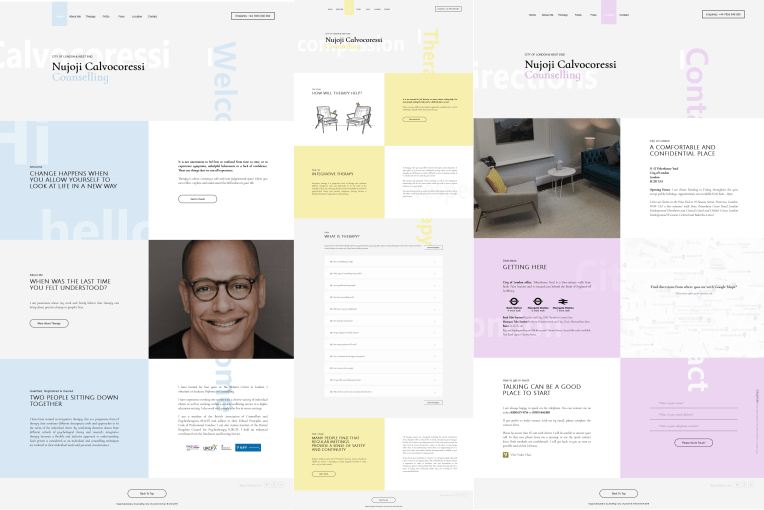
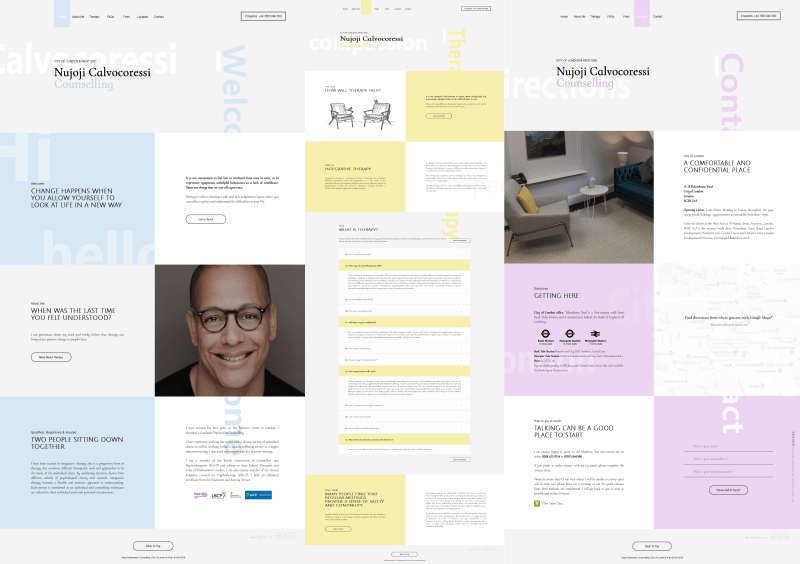
fully responsive: Projects, Resume and Footer

diff --git a/src/Projects/Projects.scss b/src/Projects/Projects.scss
@@ -3,12 +3,14 @@
     background: $color_grey;
     display: grid;
     grid-template-columns: 1fr 1fr 1fr;
-    grid-auto-rows: 18vw;
+    grid-auto-rows: 20vw;
 
 }
 .Project{
     background-size: cover;
     background-position: center;
+    background-repeat: no-repeat;
+    
     opacity: 0;
     top: 5rem;
 
@@ -89,4 +91,63 @@
 }
 .Project_cml.toTop{
     top: 0;
+}
+@include desktop-sm{
+    .Projects{
+        grid-auto-rows: 25vw;
+    }
+    .Project:nth-child(4){
+        background-size: contain;
+    }
+}
+@include tablet{
+    .Projects{
+        grid-template-columns: 1fr 1fr;
+        grid-auto-rows: 30vw;
+
+    }
+    .Project:nth-child(2){
+        grid-row: 1/3;
+
+    }
+    .Project:nth-child(1){
+        grid-row: 3;
+
+    }
+    .Project:nth-child(4){
+        background-size: cover;
+    }
+
+}
+@include mobile{
+    .Projects{
+        grid-template-columns: 1fr;
+        grid-auto-rows: 50vw;
+
+    }
+    .Project_desc{
+        font-size: 1.2rem;
+        padding-right: 12%;
+    }
+    .Project:nth-child(2){
+        grid-row: 2;
+
+    }
+    .Project:nth-child(1){
+        grid-row: 1;
+
+    }
+}
+@include mobile-sm{
+    .Projects{
+        grid-template-columns: 1fr;
+        grid-auto-rows: 60vw;
+
+    }
+    .Project_desc{
+        font-size: 1.1rem;
+        line-height: 1.4;
+        padding-right: 2rem;
+    }
+
 }

diff --git a/src/Header/Header.scss b/src/Header/Header.scss
@@ -39,12 +39,21 @@ nav{
  }
  @include mobile-sm{
      .Header{
+         background: $color_secondary_dark;
+         color: #fff;
          padding-right: 0;
          padding-left: 0;
+         padding-bottom: 3rem;
      }
      nav{
          text-align: center;
-         font-size: 1.2rem;
+         font-size: 1.1rem;
+         // display: grid;
+         // grid-template-columns: repeat(5, 1fr);
+         // justify-items:center;
+         a{
+             padding: 0 .8rem;
+         }
 
      }
 

diff --git a/src/Skills/Skills.scss b/src/Skills/Skills.scss
@@ -1,6 +1,6 @@
 @import './../App.scss';
 .Skills{
-    padding: 12rem 8rem 8rem;
+    padding: 14rem 8rem 10rem;
     background: $color_grey;
     text-align: center;
 
@@ -56,7 +56,7 @@
 }
 @include mobile-sm{
     .Skills{
-        padding: 10rem 4rem 8rem;
+        padding: 12rem 4rem 10rem;
     }
     .Skills__mob_main{
         display: grid;

diff --git a/src/Resume/Resume.scss b/src/Resume/Resume.scss
@@ -1,10 +1,14 @@
 @import './../App.scss';
 
 .Resume{
-    // padding-top: 5rem;
     text-align: center;
-    // background: $color_grey;
     min-height: 55rem;
     display: grid;
     align-content: center;
+    padding: 0 8rem;
+}
+@include mobile-sm{
+    .Resume{
+        padding: 0 4rem;
+    }
 }

diff --git a/src/About/About.scss b/src/About/About.scss
@@ -2,7 +2,7 @@
 
 .About{
     text-align: center;
-    padding: 6rem 8rem 14rem;
+    padding: 8rem 8rem 14rem;
 
 }
 @include desktop-sm{}
@@ -10,7 +10,7 @@
 @include mobile{}
 @include mobile-sm{
     .About{
-        padding: 4rem 2rem 10rem 4rem;
+        padding: 6rem 2rem 12rem 4rem;
 
     }
 }

diff --git a/src/Footer/Footer.scss b/src/Footer/Footer.scss
@@ -3,6 +3,6 @@
     background: $color_black;
     font-size: 1rem;
     color: $color_grey;
-    padding: 3rem 2rem;
+    padding: 3rem 0;
     text-align: center;
 }
